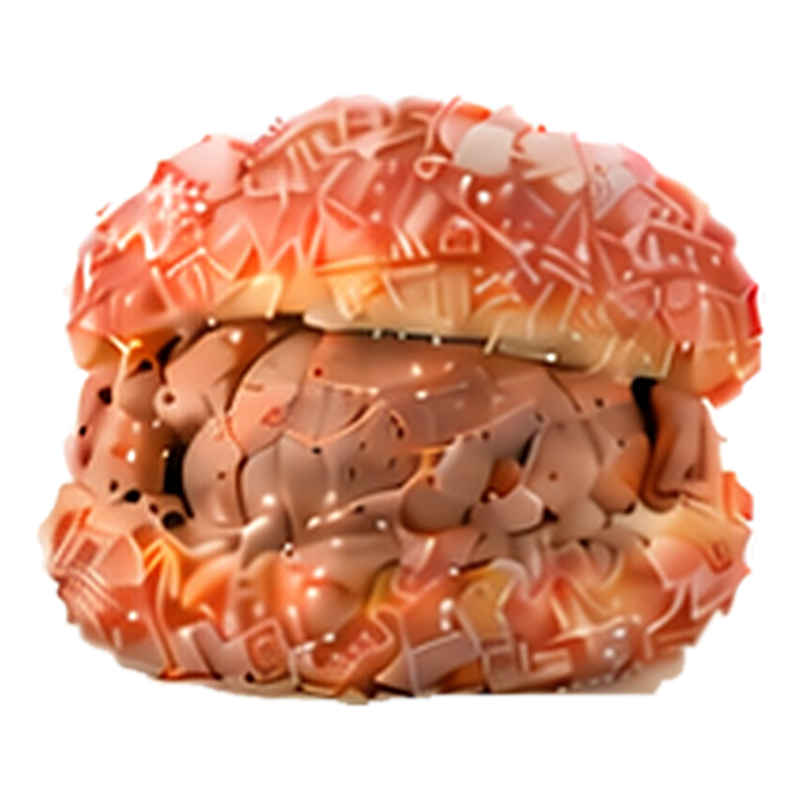
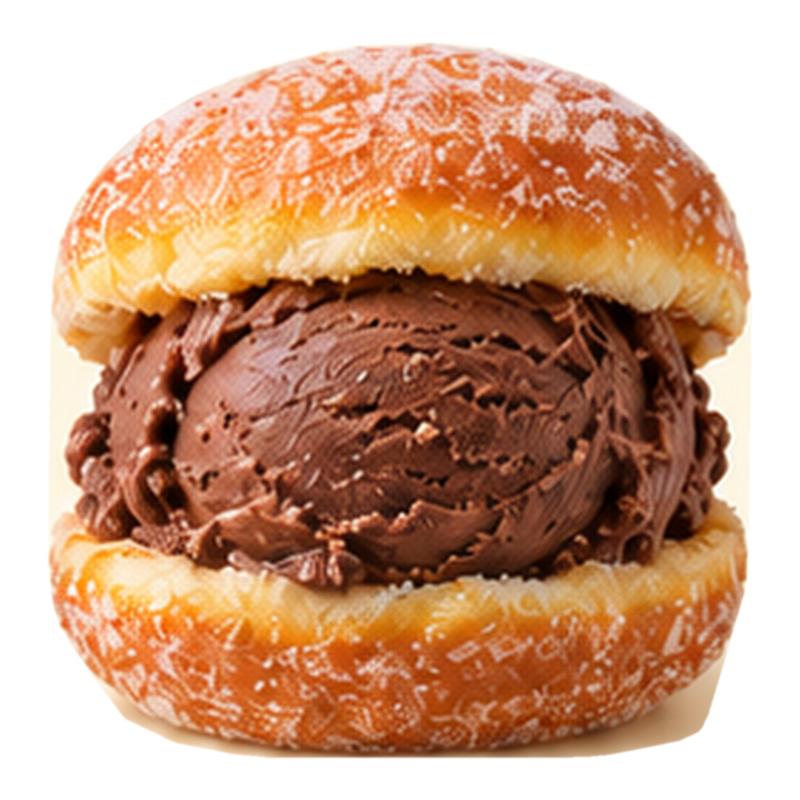
fix(site): real-looking malasadas in the sandwich promo + menu, English product name
Steve: the new board's buns don't look like malasadas. Restore the 8 sandwich photos from the
10/11 board (golden sugar-dusted malasadas) on /menu, and switch the home popup image to the
8-flavor grid made from those photos. Product name stays "Malasada Ice Cream Sandwich" in every
locale (popup title + top bar); the rest of the copy is still localized.

diff --git a/src/components/NewItemModal.tsx b/src/components/NewItemModal.tsx
@@ -8,7 +8,7 @@ import { X, MapPin } from 'lucide-react';
 import { trackEvent, trackDirectionsClick } from '@/lib/analytics';
 
 // Home-page "we have this now!" popup for the Malasada Ice Cream Sandwich (launched 9/29/2026).
-// Image is the sandwich half of the in-store board (public/images/promo/).
+// Image: the 8-flavor grid of the sandwich (same photos as the /menu section).
 const STORAGE_KEY = 'promo-modal-dismissed-sandwich-2026-10';
 const PROMO = 'malasada_ice_cream_sandwich';
 const MAPS_URL = 'https://maps.google.com/?q=2142+Kalakaua+Ave+Honolulu+HI+96815';
@@ -26,47 +26,47 @@ const translations = {
     secondary: 'Get directions',
     footer: '2142 Kalākaua Ave · Open daily 7 AM – 9 PM',
     later: 'Maybe later',
-    alt: 'Malasada Ice Cream Sandwich menu board: Vanilla, Strawberry, Ube, Chocolate, Coconut, Matcha, Cookies & Cream and Coffee, $8.95',
+    alt: 'Malasada Ice Cream Sandwich in 8 flavors: Vanilla, Strawberry, Ube, Chocolate, Coconut, Matcha, Cookies & Cream and Coffee',
   },
   ja: {
     badge: '新メニュー',
-    title: 'マラサダ・アイスクリームサンド',
+    title: 'Malasada Ice Cream Sandwich',
     body: 'シュガーをまぶしたマラサダにアイスをたっぷり。全8種 $8.95、トッピング各$1.50。',
     primary: '8種類のフレーバーを見る',
     secondary: '行き方を見る',
     footer: '2142 Kalākaua Ave · 毎日 7:00–21:00',
     later: 'あとで',
-    alt: 'マラサダ・アイスクリームサンドのメニューボード（全8種、$8.95）',
+    alt: 'Malasada Ice Cream Sandwich（全8種）',
   },
   ko: {
     badge: '신메뉴',
-    title: '말라사다 아이스크림 샌드위치',
+    title: 'Malasada Ice Cream Sandwich',
     body: '설탕 입힌 말라사다에 아이스크림을 가득. 8가지 맛 $8.95, 토핑 $1.50.',
     primary: '8가지 맛 보러 가기',
     secondary: '길찾기',
     footer: '2142 Kalākaua Ave · 매일 오전 7시–밤 9시',
     later: '나중에',
-    alt: '말라사다 아이스크림 샌드위치 메뉴판 (8가지 맛, $8.95)',
+    alt: 'Malasada Ice Cream Sandwich (8가지 맛)',
   },
   zh: {
     badge: '新品上市',
-    title: '马拉萨达冰淇淋三明治',
+    title: 'Malasada Ice Cream Sandwich',
     body: '裹糖马拉萨达夹满一球冰淇淋。8种口味 $8.95，配料每份 $1.50。',
     primary: '查看全部8种口味',
     secondary: '获取路线',
     footer: '2142 Kalākaua Ave · 每天 7:00–21:00',
     later: '稍后再说',
-    alt: '马拉萨达冰淇淋三明治菜单（8种口味，$8.95）',
+    alt: 'Malasada Ice Cream Sandwich（8种口味）',
   },
   es: {
     badge: 'NUEVO',
-    title: 'Sándwich de helado con malasada',
+    title: 'Malasada Ice Cream Sandwich',
     body: 'Una malasada azucarada rellena con una bola de helado. 8 sabores a $8.95, toppings $1.50.',
     primary: 'Ver los 8 sabores',
     secondary: 'Cómo llegar',
     footer: '2142 Kalākaua Ave · Todos los días 7 AM – 9 PM',
     later: 'Más tarde',
-    alt: 'Menú del sándwich de helado con malasada: 8 sabores, $8.95',
+    alt: 'Malasada Ice Cream Sandwich: 8 sabores',
   },
 };
 
@@ -147,10 +147,10 @@ export default function NewItemModal({ locale = 'en' }: NewItemModalProps) {
                   remember();
                   trackEvent('promo_modal_click', { promo: PROMO, locale, target: 'image' });
                 }}
-                className="block relative w-full aspect-[792/682] max-h-[42vh] sm:max-h-none bg-[#f7f5ee]"
+                className="block relative w-full aspect-[16/9] bg-[#fbf6ec]"
               >
                 <Image
-                  src="/images/promo/malasada-ice-cream-sandwich-board.webp"
+                  src="/images/blog/malasada-ice-cream-sandwich-waikiki.jpeg"
                   alt={t.alt}
                   fill
                   sizes="(max-width: 640px) 100vw, 448px"

diff --git a/src/components/PromoBanner.tsx b/src/components/PromoBanner.tsx
@@ -18,10 +18,10 @@ interface PromoBannerProps {
 
 const translations = {
   en: { badge: 'NEW', text: 'Malasada Ice Cream Sandwich', detail: '8 flavors · $8.95', cta: 'See flavors' },
-  ja: { badge: '新メニュー', text: 'マラサダ・アイスクリームサンド', detail: '全8種 · $8.95', cta: 'フレーバーを見る' },
-  ko: { badge: '신메뉴', text: '말라사다 아이스크림 샌드위치', detail: '8가지 맛 · $8.95', cta: '맛 보러 가기' },
-  zh: { badge: '新品', text: '马拉萨达冰淇淋三明治', detail: '8种口味 · $8.95', cta: '查看口味' },
-  es: { badge: 'NUEVO', text: 'Sándwich de helado con malasada', detail: '8 sabores · $8.95', cta: 'Ver sabores' },
+  ja: { badge: '新メニュー', text: 'Malasada Ice Cream Sandwich', detail: '全8種 · $8.95', cta: 'フレーバーを見る' },
+  ko: { badge: '신메뉴', text: 'Malasada Ice Cream Sandwich', detail: '8가지 맛 · $8.95', cta: '맛 보러 가기' },
+  zh: { badge: '新品', text: 'Malasada Ice Cream Sandwich', detail: '8种口味 · $8.95', cta: '查看口味' },
+  es: { badge: 'NUEVO', text: 'Malasada Ice Cream Sandwich', detail: '8 sabores · $8.95', cta: 'Ver sabores' },
 };
 
 const dispatchBannerEvent = (visible: boolean) => {
